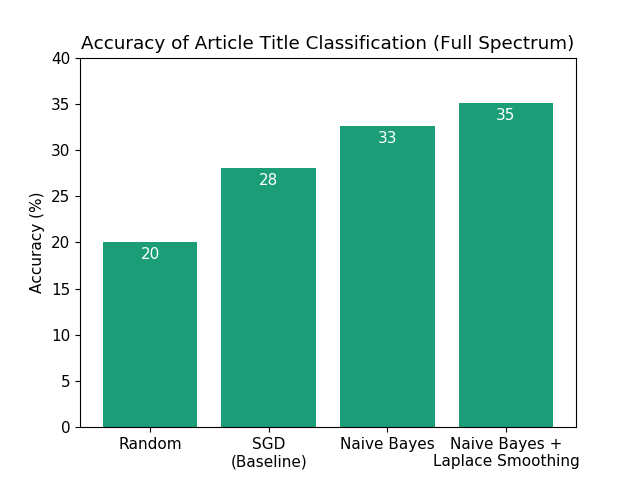
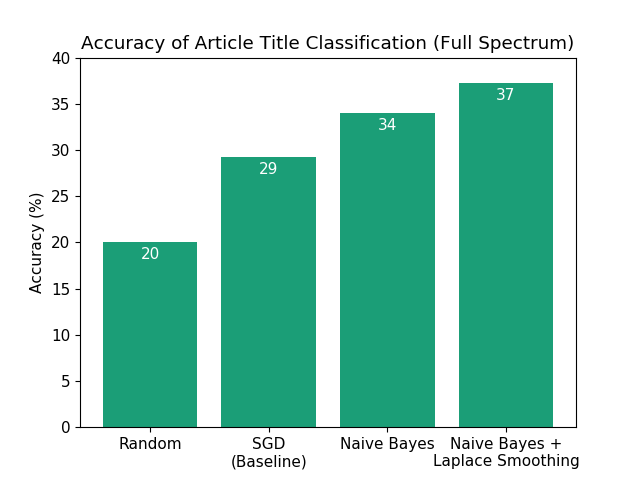
saving

Changed region(s): [[0.7188, 0.1562, 0.875, 0.25], [0.5312, 0.2188, 0.6875, 0.3125], [0.3438, 0.3125, 0.5, 0.4062]]

diff --git a/bias/run_eval.py b/bias/run_eval.py
@@ -20,44 +20,60 @@ def fileName(model, isLR, nGrams, predict):
     nGramStr = "nGrams" if nGrams else "noNgrams"
     return "%s/%s_%s_%s_%s" % (SUBDIR, model, LrOrFull, nGramStr, predict)
 
-def runAll(modelParams, model):
+def runAll(modelParams, model, fullSpectrum, rL):
     print("Run all experiments for %s\n" % (model))
     modelParams["GuessBias"] = True
-    runExperiments(modelParams, True, model, "GuessBias")
+    runBiasExperiments(modelParams, model, "GuessBias", fullSpectrum, rL)
     modelParams["GuessBias"] = False
     modelParams["GuessPublisher"] = True
-#    runExperiments(modelParams, False, model, "GuessPublisher")
+    runExperiments(modelParams, model, "GuessPublisher")
     modelParams["GuessPublisher"] = False
     modelParams["GuessBiasOfPublisher"] = True
-#    runExperiments(modelParams, True, model, "GuessBiasOfPublisher")
+    runExperiments(modelParams, model, "GuessBiasOfPublisher")
 
-def runExperiments(modelParams, includeRLOnly, model, predict):
-    print("Run no ngrams, full spectrum for %s predicting %s\n" % (model, predict))
-    #bias.runExperiment(modelParams, fileName(model, False, False, predict))
+def runBiasExperiments(modelParams, model, predict, fullSpectrum, rL):
+    if fullSpectrum:
+        print("Run no ngrams, full spectrum for %s predicting %s\n" % (model, predict))
+        bias.runExperiment(modelParams, fileName(model, False, False, predict))
 
-    if includeRLOnly:
+    if rL:
         print("Run no ngrams, RL only for %s predicting %s\n" % (model, predict))
         modelParams["LeftRightOnly"] = True
         bias.runExperiment(modelParams, fileName(model, True, False, predict))
 
-    print("Run with ngrams, full spectrum for %s predicting %s\n" % (model, predict))
-    modelParams["Ngrams"] = True
-    modelParams["LeftRightOnly"] = False
-#    bias.runExperiment(modelParams, fileName(model, False, True, predict))
+    if fullSpectrum:
+        print("Run with ngrams, full spectrum for %s predicting %s\n" % (model, predict))
+        modelParams["Ngrams"] = True
+        modelParams["LeftRightOnly"] = False
+        bias.runExperiment(modelParams, fileName(model, False, True, predict))
 
-    if includeRLOnly:
+    if rL:
         print("Run with ngrams, RL only for %s predicting %s\n" % (model, predict))
         modelParams["LeftRightOnly"] = True
-#        bias.runExperiment(modelParams, fileName(model, True, True, predict))
+        bias.runExperiment(modelParams, fileName(model, True, True, predict))
+
+
+def runOtherExperiments(modelParams, model, predict):
+    print("Run no ngrams, full spectrum for %s predicting %s\n" % (model, predict))
+    bias.runExperiment(modelParams, fileName(model, False, False, predict))
 
 logisticRegressionParams = params.copy()
-#runAll(logisticRegressionParams, "LogisticRegression")
+runAll(logisticRegressionParams, "LogisticRegression", True, True)
+
+naiveBayesParams = params.copy()
+naiveBayesParams["NaiveBayesCom"] = True
+runAll(naiveBayesParams, "NaiveBayes", True, False)
+
+naiveBayesLaplaceParams = params.copy()
+naiveBayesLaplaceParams["NaiveBayesCom"] = True
+naiveBayesLaplaceParams["LaplaceSmoothing"] = True
+runAll(naiveBayesLaplaceParams, "LaplaceNaiveBayes", True, False)
 
 naiveBayesParams = params.copy()
 naiveBayesParams["NaiveBayesBer"] = True
-#runAll(naiveBayesParams, "NaiveBayes")
+runAll(naiveBayesParams, "NaiveBayes", False, True)
 
 naiveBayesLaplaceParams = params.copy()
 naiveBayesLaplaceParams["NaiveBayesBer"] = True
 naiveBayesLaplaceParams["LaplaceSmoothing"] = True
-runAll(naiveBayesLaplaceParams, "LaplaceNaiveBayes_TEST")
+runAll(naiveBayesLaplaceParams, "LaplaceNaiveBayes", False, True)

diff --git a/bias/news_bias_baseline.py b/bias/news_bias_baseline.py
@@ -180,16 +180,20 @@ def evaluate(X_train, Y_train, X_test, Y_test, out):
         print("Scored testing data")
         predictions = classifier.predict(X_test)
 
+        
         print(classifier.feature_log_prob_)
         weight_dict0 = dv.inverse_transform(classifier.feature_log_prob_)[0]
         weight_dict1 = dv.inverse_transform(classifier.feature_log_prob_)[1]
-        topWeights = dict(sorted(weight_dict0.items(), key=operator.itemgetter(1), reverse=NAIVE_BAYES_COM)[:30])
-        bottomWeights = dict(sorted(weight_dict1.items(), key=operator.itemgetter(1), reverse=NAIVE_BAYES_COM)[:30])
-        print(topWeights)
-        print(bottomWeights)
+        topWeights = dict(sorted(weight_dict0.items(), key=operator.itemgetter(1), reverse=NAIVE_BAYES_COM)[:1000])
+        bottomWeights = dict(sorted(weight_dict1.items(), key=operator.itemgetter(1), reverse=NAIVE_BAYES_COM)[:1000])
+        topWeightsNoBottom = [x for x in topWeights if x not in bottomWeights]
+        bottomWeightsNoTop = [x for x in bottomWeights if x not in topWeights]
+        print(topWeightsNoBottom)
+        print(bottomWeightsNoTop)
 
         print(classifier.coef_[0])
-
+        
+        
         if GUESS_BIAS or GUESS_BIAS_OF_PUBLISHER:
             buckets_correct = [0, 0, 0, 0, 0]
             buckets_guessed = [0, 0, 0, 0, 0]

diff --git a/bias/plot_data.py b/bias/plot_data.py
@@ -94,7 +94,7 @@ def makeBiasOracleLROnlyPlot():
     bars = plt.bar(range(len(models) + 2), testArr, color=mix_colors[1])
     for i in range(len(bars)):
         ax.text(bars[i].get_x() + bars[i].get_width() / 2, bars[i].get_y() + bars[i].get_height() - bars[0].get_height() / 8, str(round(testArr[i])), ha='center', va='center', color='white')
-    plt.title("Accuracy of Article Title Classification with Oracle (Left or Right Only)")
+    plt.title("Accuracy of Article Title Classification with Oracle (Left or Right)")
     plt.ylabel("Accuracy (%)")
     #plt.ylim(0, 40)
     plt.xticks(range(len(modelNamesOracle)), modelNamesOracle, rotation='vertical')
